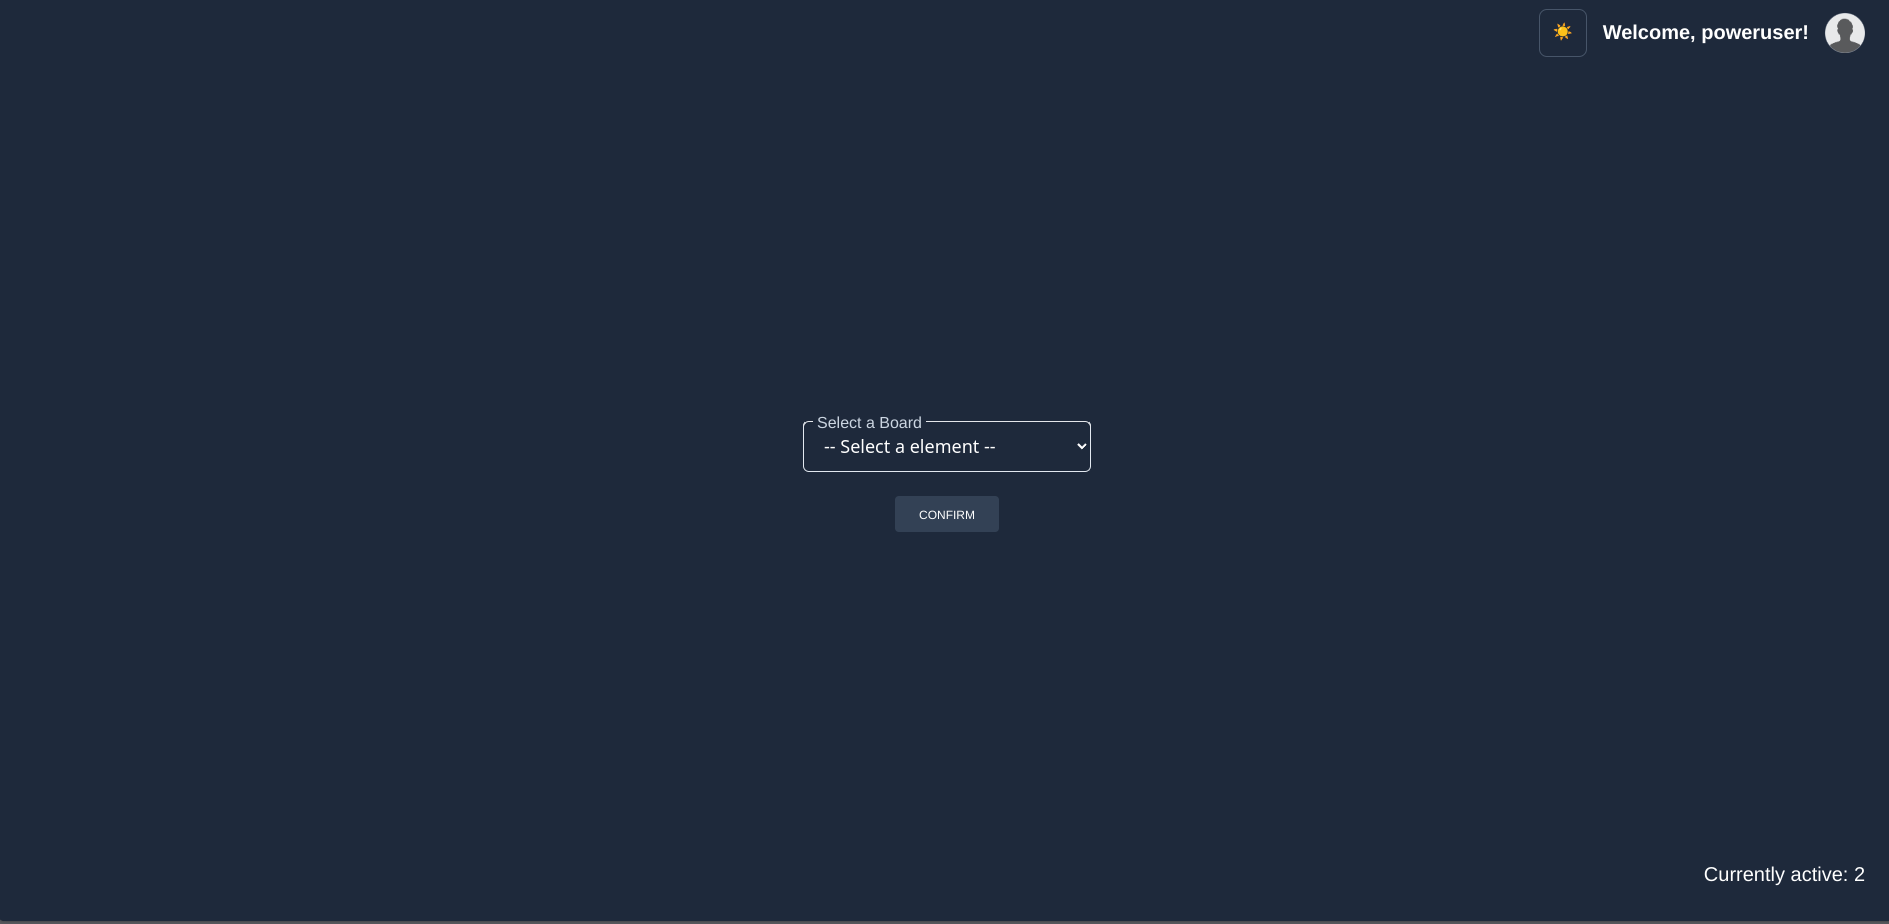
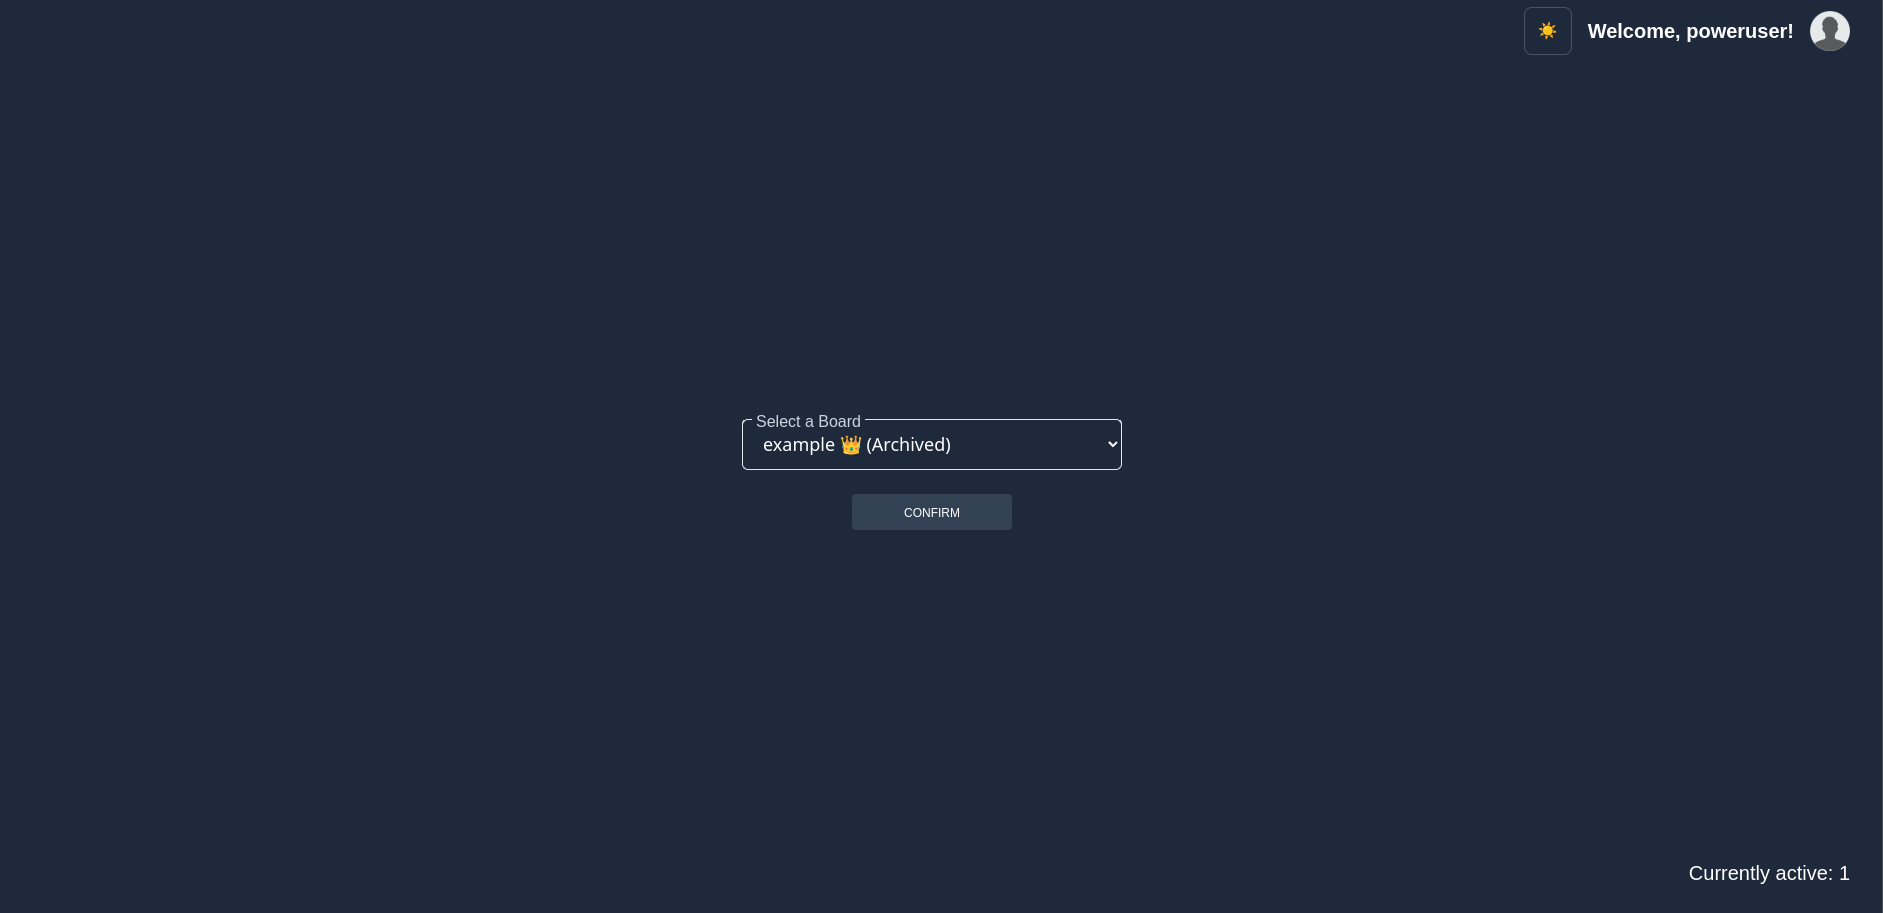
docs(#56): added more demo print screens

Changed region(s): [[0.0, 0.92, 1.0, 1.0], [0.4004, 0.4294, 0.5852, 0.5827], [0.8008, 0.0, 0.9857, 0.0613]]

diff --git a/www/src/dist/output.css b/www/src/dist/output.css
@@ -612,20 +612,12 @@ video {
   top: 50%;
 }
 
-.top-2\/4 {
-  top: 50%;
-}
-
 .top-16 {
   top: 4rem;
 }
 
-.right-4 {
-  right: 1rem;
-}
-
-.top-4 {
-  top: 1rem;
+.top-2\/4 {
+  top: 50%;
 }
 
 .z-30 {
@@ -658,11 +650,6 @@ video {
 .my-8 {
   margin-top: 2rem;
   margin-bottom: 2rem;
-}
-
-.my-2 {
-  margin-top: 0.5rem;
-  margin-bottom: 0.5rem;
 }
 
 .mb-24 {
@@ -733,10 +720,6 @@ video {
   height: 100vh;
 }
 
-.h-20 {
-  height: 5rem;
-}
-
 .max-h-screen {
   max-height: 100vh;
 }
@@ -789,8 +772,20 @@ video {
   width: 100vw;
 }
 
-.min-w-\[200px\] {
-  min-width: 200px;
+.w-40 {
+  width: 10rem;
+}
+
+.min-w-\[280px\] {
+  min-width: 280px;
+}
+
+.min-w-\[320px\] {
+  min-width: 320px;
+}
+
+.min-w-\[380px\] {
+  min-width: 380px;
 }
 
 .-translate-x-1\/2 {
@@ -855,10 +850,6 @@ video {
   align-items: center;
 }
 
-.justify-start {
-  justify-content: flex-start;
-}
-
 .justify-end {
   justify-content: flex-end;
 }
@@ -869,14 +860,6 @@ video {
 
 .justify-between {
   justify-content: space-between;
-}
-
-.justify-around {
-  justify-content: space-around;
-}
-
-.gap-4 {
-  gap: 1rem;
 }
 
 .gap-x-2 {
@@ -962,6 +945,11 @@ video {
   border-top-color: transparent;
 }
 
+.bg-gray-200 {
+  --tw-bg-opacity: 1;
+  background-color: rgb(229 231 235 / var(--tw-bg-opacity));
+}
+
 .bg-gray-400 {
   --tw-bg-opacity: 1;
   background-color: rgb(156 163 175 / var(--tw-bg-opacity));
@@ -1001,26 +989,6 @@ video {
   background-color: rgb(255 255 255 / var(--tw-bg-opacity));
 }
 
-.bg-slate-700 {
-  --tw-bg-opacity: 1;
-  background-color: rgb(51 65 85 / var(--tw-bg-opacity));
-}
-
-.bg-gray-200 {
-  --tw-bg-opacity: 1;
-  background-color: rgb(229 231 235 / var(--tw-bg-opacity));
-}
-
-.bg-slate-100 {
-  --tw-bg-opacity: 1;
-  background-color: rgb(241 245 249 / var(--tw-bg-opacity));
-}
-
-.bg-gray-100 {
-  --tw-bg-opacity: 1;
-  background-color: rgb(243 244 246 / var(--tw-bg-opacity));
-}
-
 .bg-opacity-90 {
   --tw-bg-opacity: 0.9;
 }
@@ -1048,6 +1016,11 @@ video {
   padding-right: 2rem;
 }
 
+.py-12 {
+  padding-top: 3rem;
+  padding-bottom: 3rem;
+}
+
 .py-2 {
   padding-top: 0.5rem;
   padding-bottom: 0.5rem;
@@ -1066,16 +1039,6 @@ video {
 .py-6 {
   padding-top: 1.5rem;
   padding-bottom: 1.5rem;
-}
-
-.py-8 {
-  padding-top: 2rem;
-  padding-bottom: 2rem;
-}
-
-.py-12 {
-  padding-top: 3rem;
-  padding-bottom: 3rem;
 }
 
 .pb-2 {
@@ -1126,6 +1089,11 @@ video {
   line-height: 1.75rem;
 }
 
+.text-sm {
+  font-size: 0.875rem;
+  line-height: 1.25rem;
+}
+
 .text-xl {
   font-size: 1.25rem;
   line-height: 1.75rem;
@@ -1134,11 +1102,6 @@ video {
 .text-xs {
   font-size: 0.75rem;
   line-height: 1rem;
-}
-
-.text-sm {
-  font-size: 0.875rem;
-  line-height: 1.25rem;
 }
 
 .font-black {
@@ -1182,6 +1145,11 @@ video {
   color: rgb(0 0 0 / var(--tw-text-opacity));
 }
 
+.text-gray-500 {
+  --tw-text-opacity: 1;
+  color: rgb(107 114 128 / var(--tw-text-opacity));
+}
+
 .text-red-700 {
   --tw-text-opacity: 1;
   color: rgb(185 28 28 / var(--tw-text-opacity));
@@ -1190,21 +1158,6 @@ video {
 .text-white {
   --tw-text-opacity: 1;
   color: rgb(255 255 255 / var(--tw-text-opacity));
-}
-
-.text-gray-400 {
-  --tw-text-opacity: 1;
-  color: rgb(156 163 175 / var(--tw-text-opacity));
-}
-
-.text-gray-600 {
-  --tw-text-opacity: 1;
-  color: rgb(75 85 99 / var(--tw-text-opacity));
-}
-
-.text-gray-500 {
-  --tw-text-opacity: 1;
-  color: rgb(107 114 128 / var(--tw-text-opacity));
 }
 
 .opacity-0 {
@@ -1218,24 +1171,6 @@ video {
 .shadow-lg {
   --tw-shadow: 0 10px 15px -3px rgb(0 0 0 / 0.1), 0 4px 6px -4px rgb(0 0 0 / 0.1);
   --tw-shadow-colored: 0 10px 15px -3px var(--tw-shadow-color), 0 4px 6px -4px var(--tw-shadow-color);
-  box-shadow: var(--tw-ring-offset-shadow, 0 0 #0000), var(--tw-ring-shadow, 0 0 #0000), var(--tw-shadow);
-}
-
-.shadow-md {
-  --tw-shadow: 0 4px 6px -1px rgb(0 0 0 / 0.1), 0 2px 4px -2px rgb(0 0 0 / 0.1);
-  --tw-shadow-colored: 0 4px 6px -1px var(--tw-shadow-color), 0 2px 4px -2px var(--tw-shadow-color);
-  box-shadow: var(--tw-ring-offset-shadow, 0 0 #0000), var(--tw-ring-shadow, 0 0 #0000), var(--tw-shadow);
-}
-
-.shadow-sm {
-  --tw-shadow: 0 1px 2px 0 rgb(0 0 0 / 0.05);
-  --tw-shadow-colored: 0 1px 2px 0 var(--tw-shadow-color);
-  box-shadow: var(--tw-ring-offset-shadow, 0 0 #0000), var(--tw-ring-shadow, 0 0 #0000), var(--tw-shadow);
-}
-
-.shadow-2xl {
-  --tw-shadow: 0 25px 50px -12px rgb(0 0 0 / 0.25);
-  --tw-shadow-colored: 0 25px 50px -12px var(--tw-shadow-color);
   box-shadow: var(--tw-ring-offset-shadow, 0 0 #0000), var(--tw-ring-shadow, 0 0 #0000), var(--tw-shadow);
 }
 
@@ -1255,11 +1190,6 @@ video {
 
 .brightness-75 {
   --tw-brightness: brightness(.75);
-  filter: var(--tw-blur) var(--tw-brightness) var(--tw-contrast) var(--tw-grayscale) var(--tw-hue-rotate) var(--tw-invert) var(--tw-saturate) var(--tw-sepia) var(--tw-drop-shadow);
-}
-
-.drop-shadow-xl {
-  --tw-drop-shadow: drop-shadow(0 20px 13px rgb(0 0 0 / 0.03)) drop-shadow(0 8px 5px rgb(0 0 0 / 0.08));
   filter: var(--tw-blur) var(--tw-brightness) var(--tw-contrast) var(--tw-grayscale) var(--tw-hue-rotate) var(--tw-invert) var(--tw-saturate) var(--tw-sepia) var(--tw-drop-shadow);
 }
 
@@ -1724,21 +1654,6 @@ video {
   background-color: rgb(30 41 59 / var(--tw-bg-opacity));
 }
 
-:is(.dark .dark\:bg-gray-700) {
-  --tw-bg-opacity: 1;
-  background-color: rgb(55 65 81 / var(--tw-bg-opacity));
-}
-
-:is(.dark .dark\:text-slate-300) {
-  --tw-text-opacity: 1;
-  color: rgb(203 213 225 / var(--tw-text-opacity));
-}
-
-:is(.dark .dark\:text-white) {
-  --tw-text-opacity: 1;
-  color: rgb(255 255 255 / var(--tw-text-opacity));
-}
-
 :is(.dark .dark\:text-gray-400) {
   --tw-text-opacity: 1;
   color: rgb(156 163 175 / var(--tw-text-opacity));
@@ -1749,10 +1664,14 @@ video {
   color: rgb(226 232 240 / var(--tw-text-opacity));
 }
 
-:is(.dark .dark\:shadow-md) {
-  --tw-shadow: 0 4px 6px -1px rgb(0 0 0 / 0.1), 0 2px 4px -2px rgb(0 0 0 / 0.1);
-  --tw-shadow-colored: 0 4px 6px -1px var(--tw-shadow-color), 0 2px 4px -2px var(--tw-shadow-color);
-  box-shadow: var(--tw-ring-offset-shadow, 0 0 #0000), var(--tw-ring-shadow, 0 0 #0000), var(--tw-shadow);
+:is(.dark .dark\:text-slate-300) {
+  --tw-text-opacity: 1;
+  color: rgb(203 213 225 / var(--tw-text-opacity));
+}
+
+:is(.dark .dark\:text-white) {
+  --tw-text-opacity: 1;
+  color: rgb(255 255 255 / var(--tw-text-opacity));
 }
 
 :is(.dark .dark\:brightness-100) {

diff --git a/www/src/index.html b/www/src/index.html
@@ -24,7 +24,7 @@
 
     <div id="container" class="w-full h-[80vh] flex items-center justify-center">
       <div
-        class="relative flex flex-col items-center gap-y-6 h-12 w-72 min-w-[200px]">
+        class="relative flex flex-col items-center gap-y-6 h-12 w-92 min-w-[380px]">
         <select
           name="board-selector"
           id="board-selector"
@@ -33,8 +33,7 @@
           class="peer h-18 w-full rounded-md border border-slate-200 border-t-transparent bg-transparent px-4 py-3 font-sans text-lg font-normal text-blue-gray-700 outline outline-0 transition-all placeholder-shown:border placeholder-shown:border-blue-gray-200 placeholder-shown:border-t-blue-gray-200 empty:!bg-red-500 focus:border-2 focus:border-slate-200 focus:border-t-transparent focus:outline-0 disabled:border-0 disabled:bg-blue-gray-50">
           <option selected="selected" value
             disabled
-            class="dark:bg-slate-600 bg-slate-200">-- Select a
-            element --</option>
+            class="dark:bg-slate-600 bg-slate-200">-- Select a board --</option>
         </select>
         <label
           class="before:content[' '] after:content[' '] pointer-events-none absolute left-0 -top-1.5 flex h-full w-full select-none text-md font-normal leading-tight text-black dark:text-slate-300 transition-all before:pointer-events-none before:mt-[6.5px] before:mr-1 before:box-border before:block before:h-1.5 before:w-2.5 before:rounded-tl-md before:border-t before:border-l before:border-blue-gray-200 before:transition-all after:pointer-events-none after:mt-[6.5px] after:ml-1 after:box-border after:block after:h-1.5 after:w-2.5 after:flex-grow after:rounded-tr-md after:border-t after:border-r after:border-blue-gray-200 after:transition-all peer-placeholder-shown:text-sm peer-placeholder-shown:leading-[3.75] dark:peer-placeholder-shown:text-blue-gray-500 peer-placeholder-shown:text-black peer-placeholder-shown:before:border-transparent peer-placeholder-shown:after:border-transparent peer-focus:text-[11px] peer-focus:leading-tight dark:peer-focus:text-slate-200 peer-focus:text-black peer-focus:before:border-t-2 peer-focus:before:border-l-2 peer-focus:before:border-slate-200 peer-focus:after:border-t-2 peer-focus:after:border-r-2 peer-focus:after:border-slate-200 peer-disabled:text-transparent peer-disabled:before:border-transparent peer-disabled:after:border-transparent peer-disabled:peer-placeholder-shown:text-blue-gray-500">
@@ -43,7 +42,7 @@
         <button
           type="button"
           id="confirm-button"
-          class="mx-auto rounded dark:bg-slate-700 dark:text-white bg-slate-300 text-black px-6 pb-2 pt-2.5 text-xs font-medium uppercase leading-normal transition-all duration-300 ease-in-out hover:bg-primary-600 hover:drop-shadow-md focus:bg-primary-600 focus:drop-shadow-lg focus:outline-none focus:ring-0 active:bg-primary-700 active:drop-shadow-lg">
+          class="mx-auto w-40 rounded dark:bg-slate-700 dark:text-white bg-slate-300 text-black px-6 pb-2 pt-2.5 text-xs font-medium uppercase leading-normal transition-all duration-300 ease-in-out hover:bg-primary-600 hover:drop-shadow-md focus:bg-primary-600 focus:drop-shadow-lg focus:outline-none focus:ring-0 active:bg-primary-700 active:drop-shadow-lg">
           Confirm
         </button>
       </div>

diff --git a/docs/sprint-c/us30-3005/README.md b/docs/sprint-c/us30-3005/README.md
@@ -108,11 +108,16 @@ _Note: This are some simplified versions of the tests for readability purposes._
 ### 6.1. Select Board
 
 ![US3005_DEMO-1](US3005_DEMO-1.png)
-![US3005_DEMO-2](US3005_DEMO-2.png)
 
 ### 6.2. View Board
 
+![US3005_DEMO-2](US3005_DEMO-2.png)
 ![US3005_DEMO-3](US3005_DEMO-3.png)
+
+### 6.3. View Post It
+
+![US3005_DEMO-4](US3005_DEMO-4.png)
+![US3005_DEMO-5](US3005_DEMO-5.png)
 
 ## 7. Observations
 
